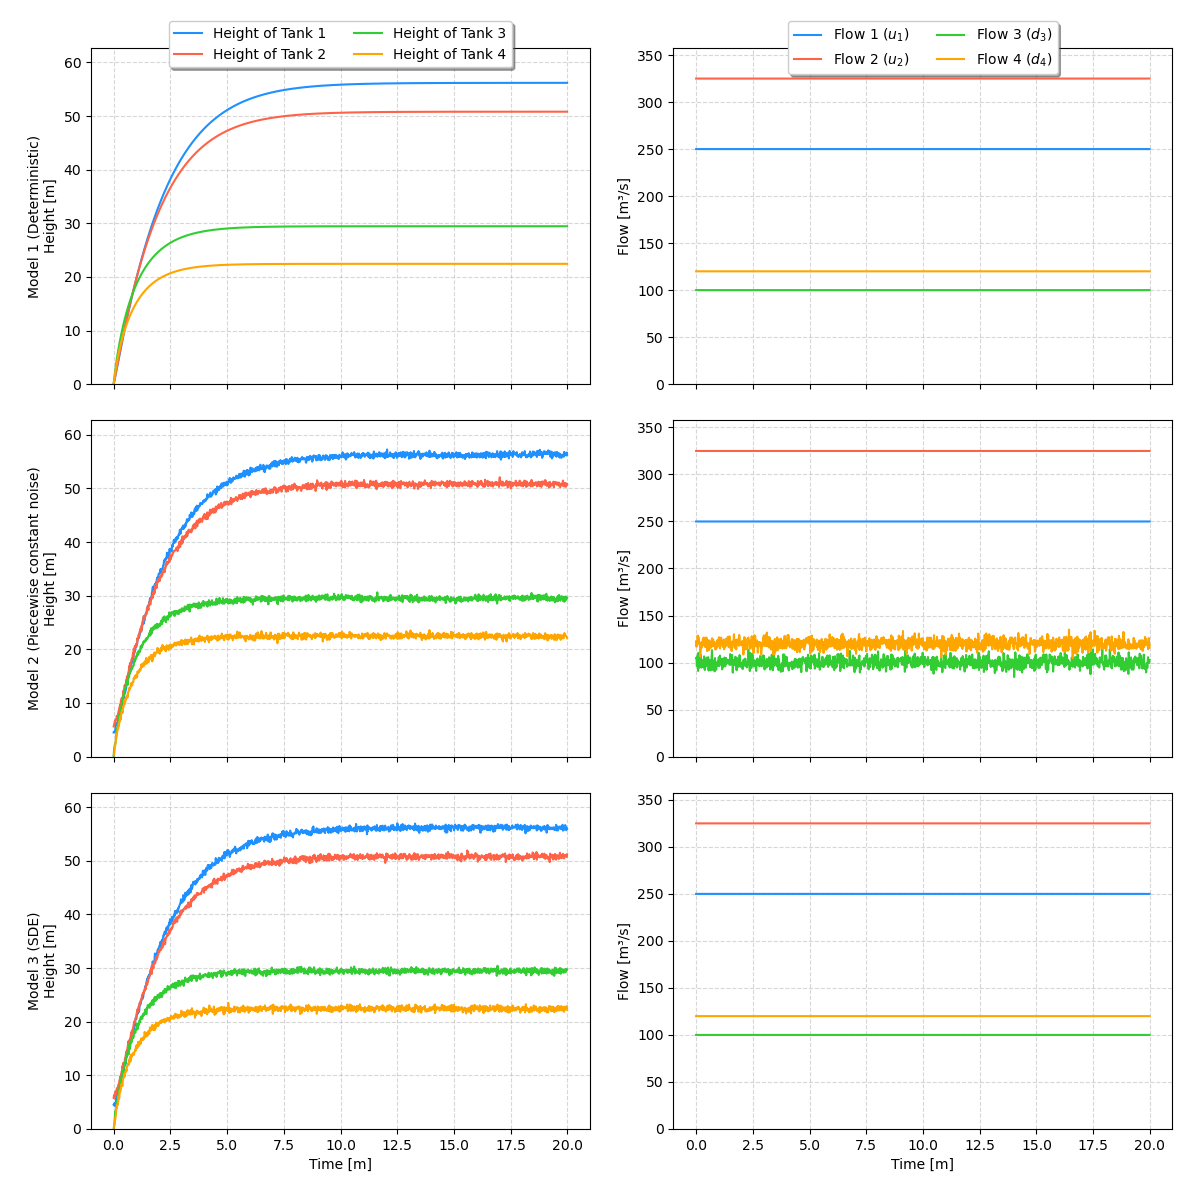
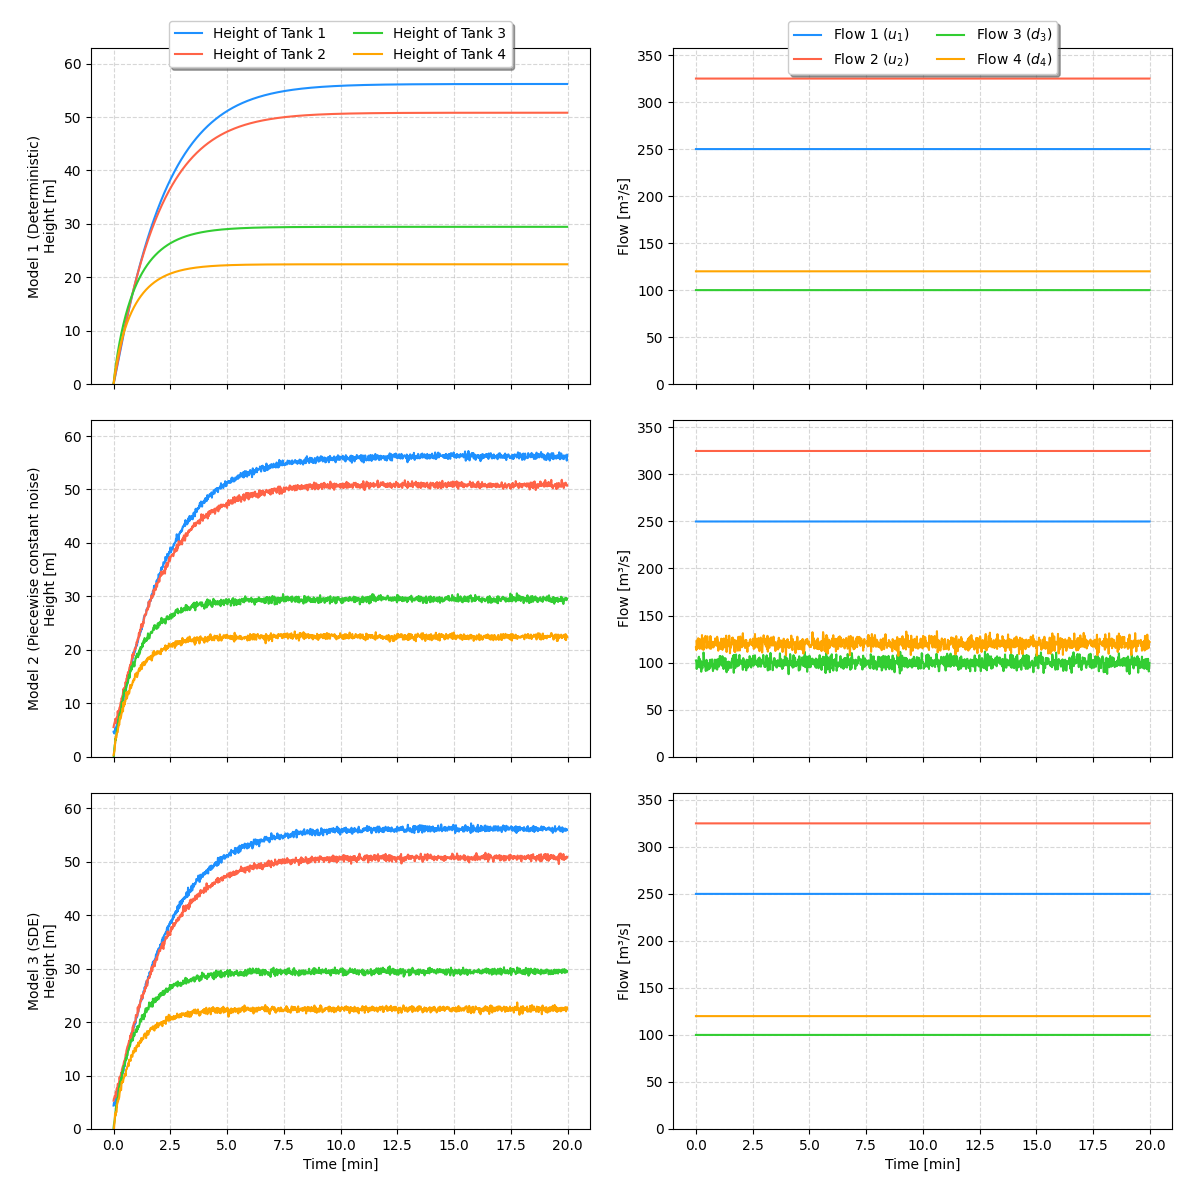
min

diff --git a/Problem_2.py b/Problem_2.py
@@ -139,8 +139,8 @@ axes[1,0].set_ylabel('Model 2 (Piecewise constant noise)\nHeight [m]')
 axes[1,1].set_ylabel('Flow [m³/s]')
 axes[2,0].set_ylabel('Model 3 (SDE)\nHeight [m]')
 axes[2,1].set_ylabel('Flow [m³/s]')
-axes[2,0].set_xlabel('Time [m]')
-axes[2,1].set_xlabel('Time [m]')
+axes[2,0].set_xlabel('Time [min]')
+axes[2,1].set_xlabel('Time [min]')
 
 axes[0,0].grid(True, linestyle='--', alpha=0.5)
 axes[0,1].grid(True, linestyle='--', alpha=0.5)
